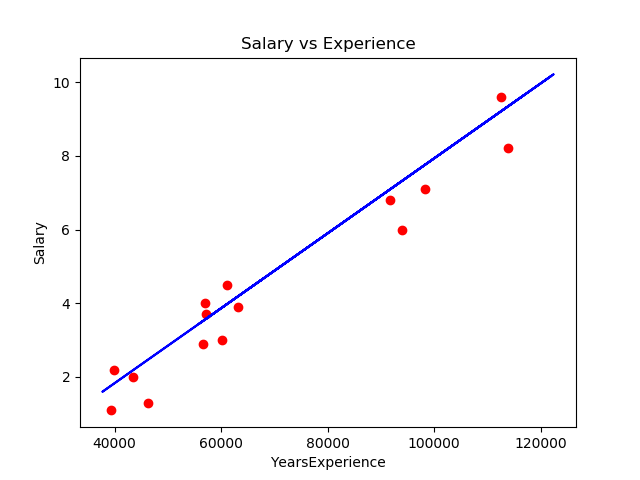
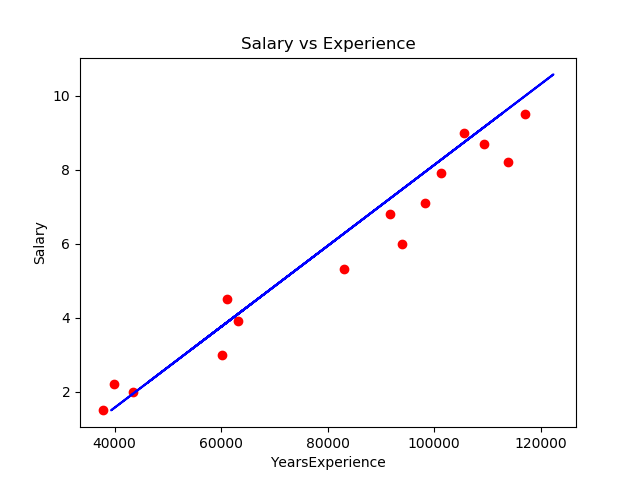
changes made in ml model filesave

diff --git a/static/partials/mlearn.html b/static/partials/mlearn.html
@@ -109,10 +109,97 @@
 		</div>
 	</div>
 	<div class="container" ng-hide="avengers">
-		<div style="text-align: center;">
-        <!--<h1>Test Set Result</h1>-->
-			<h3 ng-show="calculatedscore">[[calculatedscore.result_score]]</h3>
-            <img src="/static/test1.png">
-        </div>
+		<nav aria-label="breadcrumb" class="my-4">
+			<ol class="breadcrumb">
+				<!--<li class="breadcrumb-item active" aria-current="page"><a href="" ng-click="reload()">Visualization</a></li>-->
+				<li class="breadcrumb-item" aria-current="page">Training Results</li>
+			</ol>
+		</nav>
+		<div class="card-deck mt-4em" align-items-center text-center">
+
+			<div class="card text-center" style="width: auto;">
+				<h3>Training Scatter Plot</h3>
+  				<img class="card-img-top" src="/static/test1.png" alt="/static/test1.png">
+  				<div class="card-body">
+    				<h5 class="card-title text-center">Regression Plot</h5>
+
+  				</div>
+			</div>
+			<div class="card text-center" style="width: auto;">
+				<h3>Training Data Variables</h3>
+				<div class="col-sm">
+						<table class = "table table-striped">
+							<thead class="bg-primary" style="color:white;">
+								<tr>
+									<th ng-show="calculatedscore" scope= "row"  scope="col" >Factor</th>
+									<th ng-show="calculatedscore" scope= "row"  scope="col" >Values</th>
+								</tr>
+							</thead>
+							<tbody>
+								<tr>
+									<th ng-show="calculatedscore" scope= "row" >Accuracy</th>
+									<td ng-show="calculatedscore">
+										[[calculatedscore.result_score]]
+									</td>
+								</tr>
+								<tr>
+									<th ng-show="calculatedscore" scope= "row" >R-Squared</th>
+									<td ng-show="calculatedscore">
+										[[calculatedscore.rsquared]]
+									</td>
+								</tr>
+								<tr>
+									<th ng-show="calculatedscore" scope= "row" >Adjective R-Squared</th>
+									<td ng-show="calculatedscore">
+										[[calculatedscore.radjective]]
+									</td>
+								</tr>
+								<tr>
+									<th ng-show="calculatedscore" scope= "row" >Std. Error of Estimate</th>
+									<td ng-show="calculatedscore">
+										[[calculatedscore.err_of_estimate]]
+									</td>
+								</tr>
+								<tr>
+									<th ng-show="calculatedscore" scope= "row" >F-value</th>
+									<td ng-show="calculatedscore">
+										[[calculatedscore.fvalue]]
+									</td>
+								</tr>
+								<tr>
+									<th ng-show="calculatedscore" scope= "row" >P-value</th>
+									<td ng-show="calculatedscore">
+										[[calculatedscore.pvalue]]
+									</td>
+								</tr>
+								<tr>
+									<th ng-show="calculatedscore" scope= "row" >T-value</th>
+									<td ng-show="calculatedscore">
+										[[calculatedscore.tvalue]]
+									</td>
+								</tr>
+							</tbody>
+					<!--<div id="analyticalSummary" width="400" height="300" style="background-color: #D3D3D3;">
+						<h2 class="text-primary text-center display-4" style="padding: 30px;">Analytical Summary:
+						</h2>
+						<h3 ng-show="calculationDone && selectedmethod!='anova'" class="font-weight-bold text-center text-light" style="padding-bottom: 30px;">
+							[[selectedmethod]] : [[calculatedSummary]]
+						</h3>
+						<ul ng-show="selectedmethod=='anova' && calculationDone">
+						<li>f :[[calculatedSummary.f]]</li>
+						<li>p :[[calculatedSummary.p]]</li>
+						<li>eta_square :[[calculatedSummary.eta_square]]</li>
+						<li>omega_square : [[calculatedSummary.omega_square]]</li>
+						</ul>
+						</div>-->
+						</table>
+					</div>
+			</div>
+		</div>
+		<h3>Save model :</h3><br>
+		<input type="text" name="filename"id="filename" placeholder="Enter FileName"><br>
+		<a href="" class="btn btn-primary" ng-click="savemodel()">Save</a>
+
+
 	</div>
 </div>

diff --git a/static/js/app.js b/static/js/app.js
@@ -603,7 +603,27 @@ module.controller("mlearnCtrl",function($scope,$http){
 
         }
 
+    $scope.savemodel = function(){
+        console.log("inside modelsave");
+        let url = '/savemodel/';
+        let filename = document.getElementById("filename").value;
+        data = new FormData();
+        data.append("filename",filename);
+        $http.post(url,data,{
+            headers: {'Content-Type': undefined},
+            transformRequest: angular.identity
+        }).success(function (data,status,headers,config) {
+                //First function handles success
+                console.log("tosavefilename",filename);
+
+            }). error(function (data,status,headers,config) {
+                //Second function handles error
+                console.log("Something went wrong");
+            });
+    }
+
 	});
+
 
 module.controller("analyticalCtrl", function($scope,$http) {
     $scope.test ="This is working analytical";

diff --git a/mlearn/views.py b/mlearn/views.py
@@ -20,6 +20,8 @@ import scipy.stats.stats as stats
 from scipy.stats import kurtosis
 from scipy import stats
 
+import statsmodels.api as sm
+import os
 # Create your views here.
 
 
@@ -109,7 +111,7 @@ def calcsregression(request):
 		#predicting test results
 		y_pred = regressor.predict(x_test)
 		print("Test score: {0:.2f} %".format(100 * result_score))
-		result_score = ("Accuracy: {0:.2f} %".format(100 * result_score))
+		result_score = ("{0:.2f} %".format(100 * result_score))
 		print(result_score)
 		#print("Prediction--->",y_pred)
 		#plotting test results on an image
@@ -124,7 +126,31 @@ def calcsregression(request):
 
 		from sklearn.metrics import r2_score
 		aa = r2_score(y_test, y_pred)
+		model =sm.OLS(y_test, x_test).fit()
+
+
+		rs=model.rsquared
+		rs=("{0:0.5}".format(rs))
+		rad=model.rsquared_adj
+		rad=("{0:0.5}".format(rad))
+		smr = str(model.summary())
+		stderoe = model.bse
+		stderoe = float(stderoe)
+		stderoe = ("{0:0.5}".format(100*stderoe))
+		pvalue = float(model.pvalues)
+		tvalue = float(model.tvalues)
+		fvalue = model.fvalue
+		fvalue = ("{0:0.5}".format(fvalue))
+		pvalue = ("{0:0.5}".format(pvalue))
+		tvalue = ("{0:0.5}".format(tvalue))
 		print(aa)
+		print(model.summary())
+		print("rsquared", rs)
+		print("rad.", rad)
+		print(stderoe)
+		print("pvalue",pvalue)
+		print("tvalue",tvalue)
+		print("fvalue",fvalue)
 
 		responseData = {
            	'summary':result,
@@ -133,11 +159,22 @@ def calcsregression(request):
 
 		describeDict = {
 			"result_score" : "",
+			"rsquared" : "",
+			"radjective" : "",
+			"err_of_estimate" : "",
+			"fvalue" : "",
+			"pvalue" : "",
+			"tvalue" : "",
 		}
 
 		describeDict['result_score'] = result_score
+		describeDict['rsquared'] = rs
+		describeDict['radjective'] = rad
+		describeDict['err_of_estimate'] = stderoe
+		describeDict['fvalue'] = fvalue
+		describeDict['pvalue'] = pvalue
+		describeDict['tvalue'] = tvalue
 		responseData['summary']=  describeDict
-		print('rrrrrr',responseData)
 		plt.scatter(x_test, y_test, color = 'red')
 
 		plt.plot(x_train, regressor.predict(x_train), color = 'blue')
@@ -163,3 +200,20 @@ def calcsregression(request):
 
 
 	return JsonResponse(responseData,safe=False)
+
+def savemodel(request):
+	print('I am in save model function')
+	json_data = {}
+	data = {}
+	if request.method == 'POST':
+		filename = request.POST['filename']
+		file = 'static/linear_model.pkl'
+		print(filename)
+		print(os.listdir('static'))
+		print(filename+'.pkl')
+		os.rename(file, 'static/'+filename+'.pkl')
+
+		msg = 'saved successfully'
+		return HttpResponse(msg)
+	msg = 'error while saving statistical summary'
+	return HttpResponse(msg)

diff --git a/statsproject/urls.py b/statsproject/urls.py
@@ -80,6 +80,7 @@ urlpatterns = [
 
 	url(r'^mlearn/$', ml_views.mlearn, name="mlearn"),
     url(r'^calcsregression/$', ml_views.calcsregression, name='calcsregression'),
+    url(r'^savemodel/$', ml_views.savemodel, name='calcsregression'),
 
 ]
 if settings.DEBUG:
